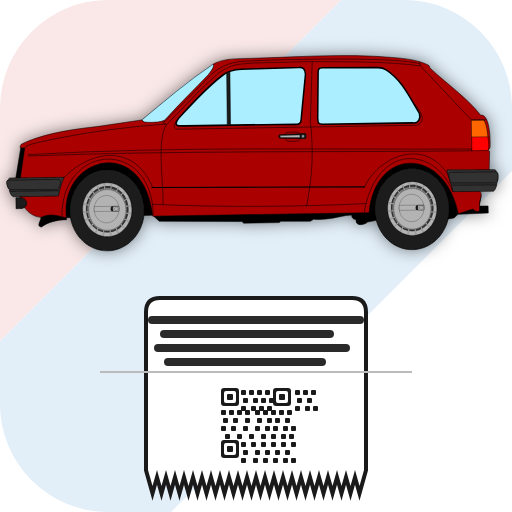
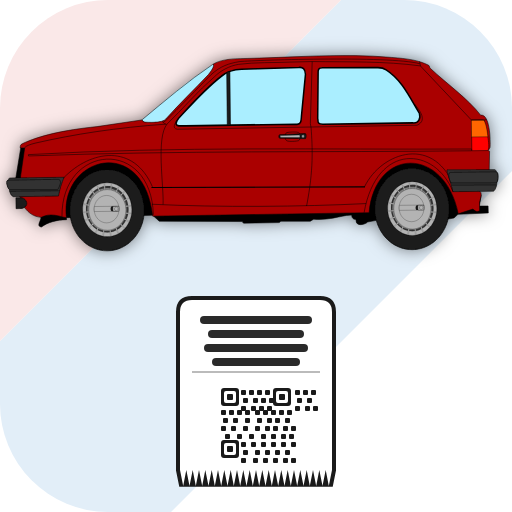
Иконица: ужи рачун, унутрашње линије са маргинама

Changed region(s): [[0.2188, 0.5625, 0.7812, 0.9688]]

diff --git a/service-worker.js b/service-worker.js
@@ -6,7 +6,7 @@
 //   - Cross-origin              -> ne dira (samo PURS-a nema više; sve je lokalno)
 //
 // Bumpuj CACHE_VERSION kad se menjaju ikonice ili kad treba obrisati stari keš.
-const CACHE_VERSION = 'v16';
+const CACHE_VERSION = 'v17';
 const CACHE_NAME = `fiskalac-${CACHE_VERSION}`;
 
 const SCOPE = new URL(self.registration.scope).pathname;
